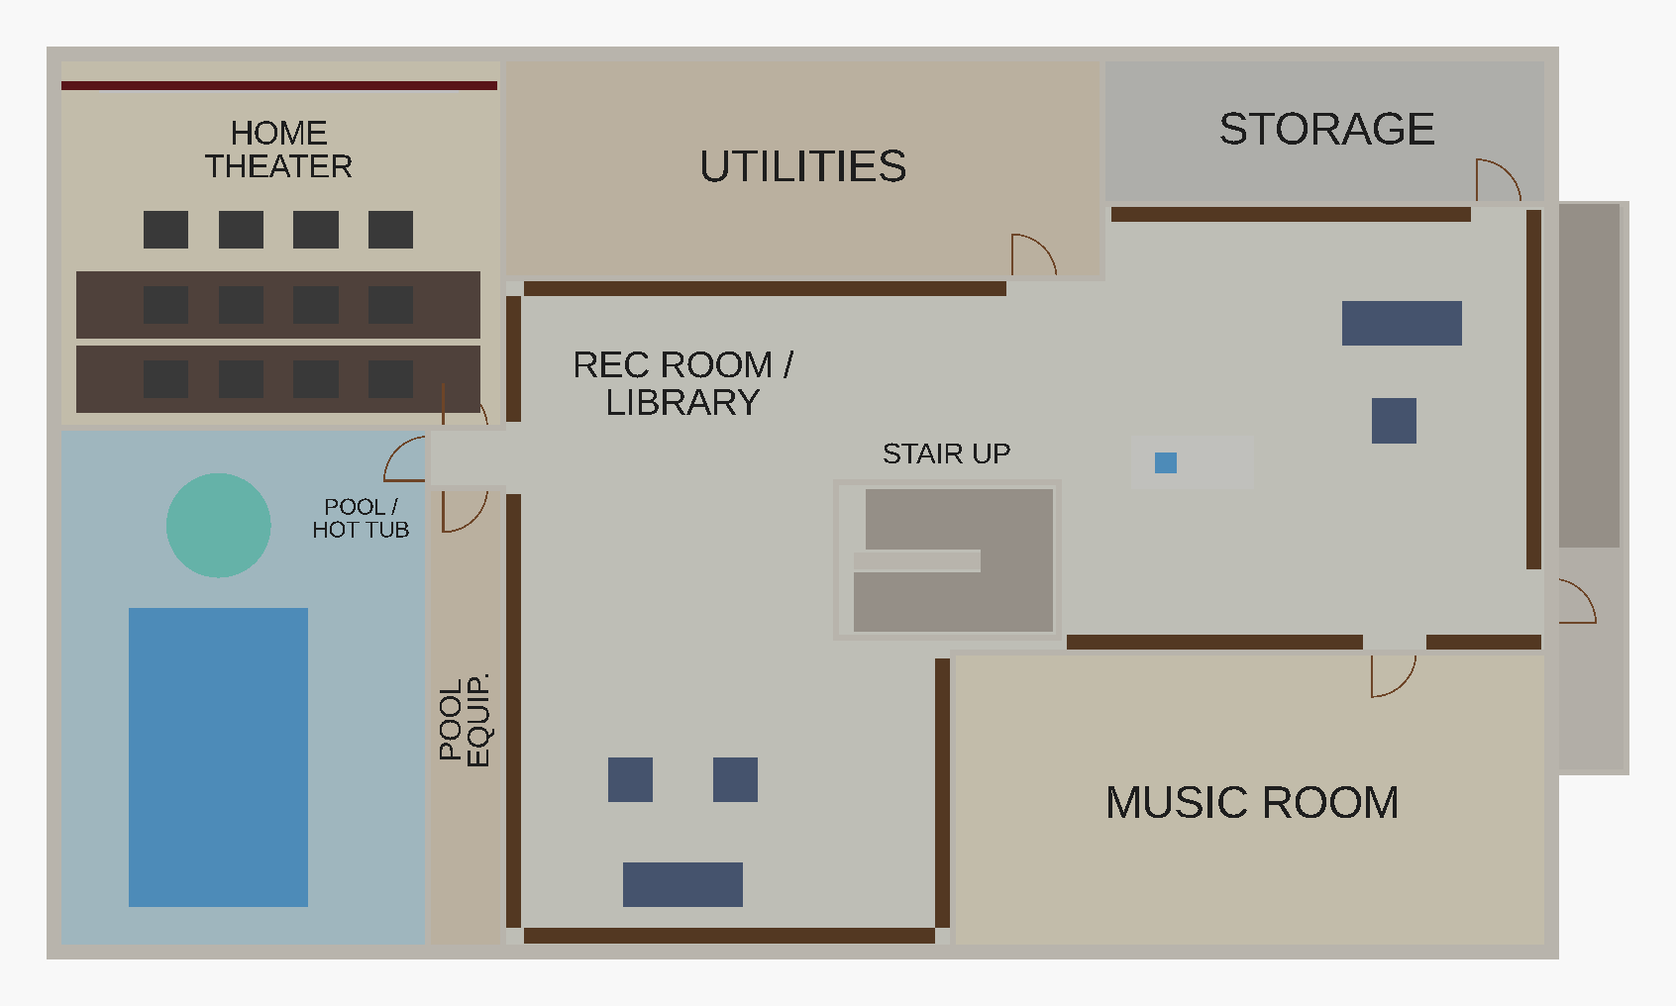
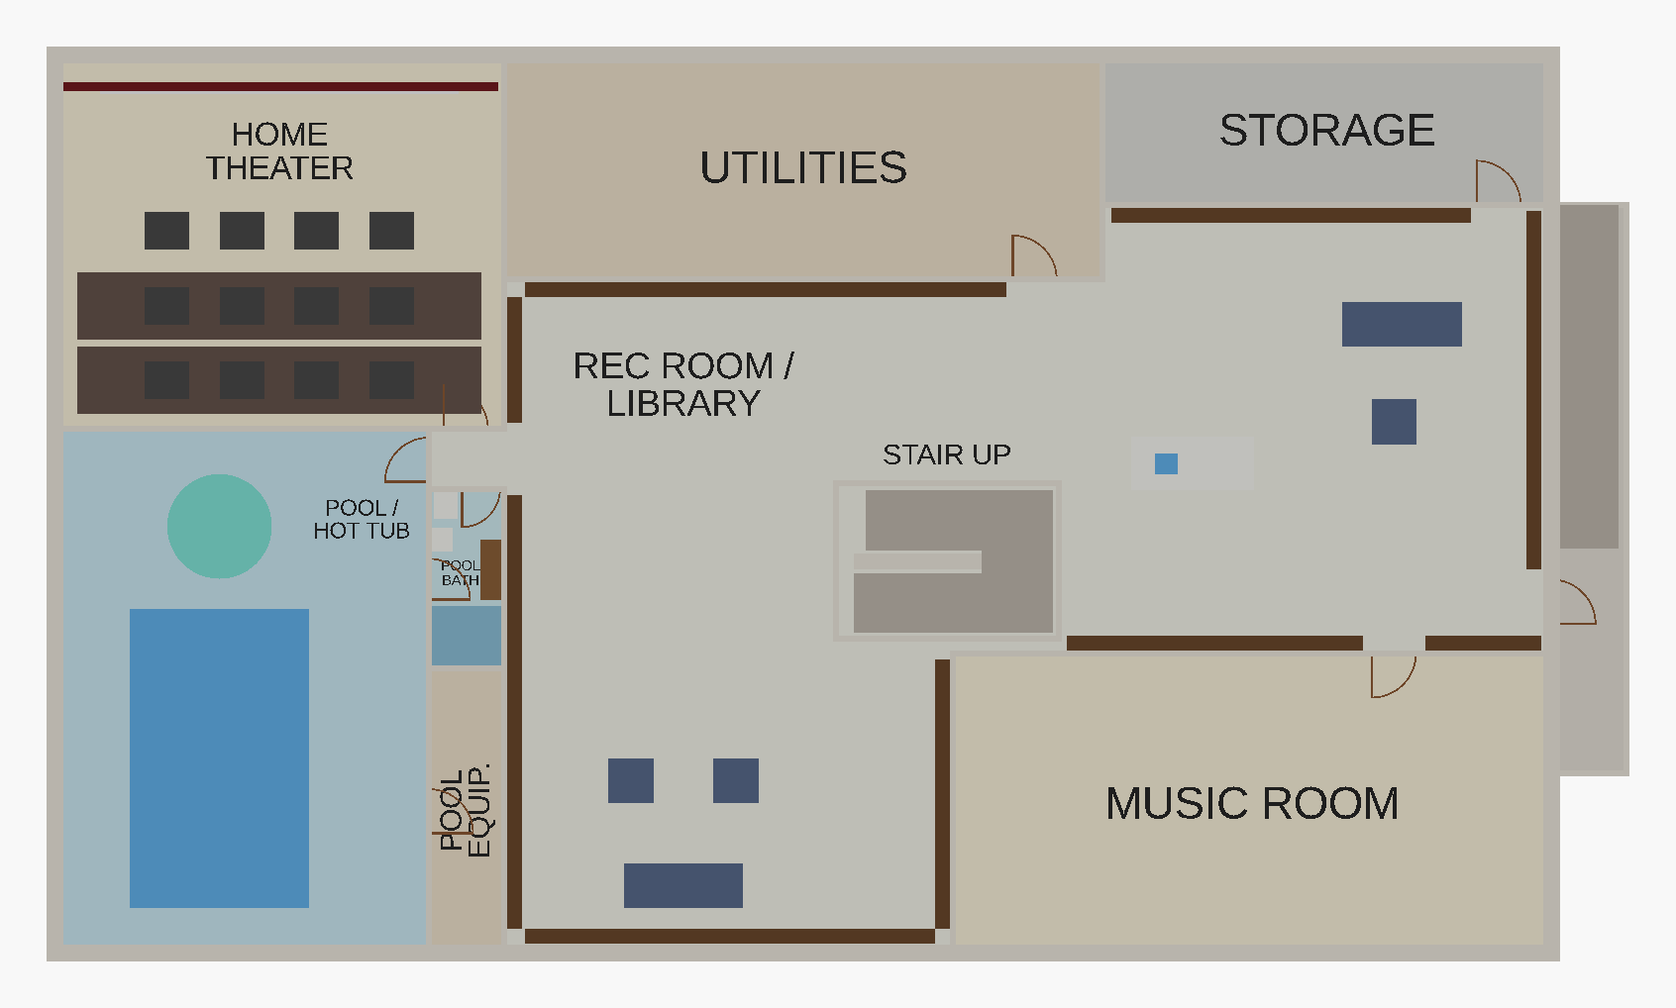
Basement pool bath and 8 in ICF core, from the build research
- Pool bath (WC, shower, sink, change bench) carved from the north end of
  the pool-equipment strip, with doors from the pool room and from the
  rec-room vestibule. Pool equipment keeps 5 x 19 ft, door off the pool.
- Foundation wall drawn 13 1/4 in (8 in core + 2 x 2 5/8 in EPS) via
  icf_wall_t() instead of a flat 1 ft.
- REVIEW.md round-3 table; README; basement and exploded renders.

Claude-Session: https://claude.ai/code/session_018d8BEoLUnZJHvcnz3sBah6

diff --git a/REVIEW.md b/REVIEW.md
@@ -55,6 +55,18 @@ basement sketch, the OpenSCAD models as of `c28a5f8`, and Kayla's notes.
 | *Small bar / coffee station in the middle of the rec room with a small sink and dishwasher* | An island of about **8 × 3½ ft** stands in the open part of the rec room, east of the stair. It has a bar sink and a 24" dishwasher. The old bar counter along the wall is gone. |
 | *All rec-room walls full of bookshelves, a library, with some seating* | **7 ft bookshelves** line every solid rec-room wall, leaving door openings clear. There are two reading groups: a sofa with two chairs in the south bay, and a sofa with a chair near the coffee station. The room is labelled REC ROOM / LIBRARY. |
 
+### Round 3: from the build research (Oct 28)
+
+| Research item | In the model |
+|---|---|
+| *No basement bathroom* (decision A3, a before-the-pour rough-in) | A **pool bath** of about 5 × 12 ft, taken from the north end of the pool-equipment strip. Swimmers reach it straight from the pool room, and it has a second door from the vestibule on the rec-room side, so the theater and library can use it too. Inside: a shower at the south end, a change bench, a sink and a WC. The pool-equipment room is now 5 × 19 ft (about 95 sq ft) with its door off the pool room. |
+| *ICF: plan on an 8 in core* (decision C12) | The foundation wall is now drawn **13¼ in** thick (8 in core plus two 2⅝ in EPS faces) instead of 12 in, centred on the same 100 × 60 outline (`icf_wall_t()` in `house_lib.scad`). |
+
+The rest of the research's layout list is still open and needs your call:
+the stair (section 2 below), a second interior stair, fitting the basement
+outline to the house, the exit stair vs. the side porch, and the theater's
+sound isolation.
+
 ## 2. Decision needed: where the basement stair goes
 
 The two drawings put the stair in places that can't connect:
@@ -154,7 +166,7 @@ Fixed:
   - It now sits behind the screen on the north wall, with the seats on
     risers facing it. The seats used to float in mid-air.
 - **Exit door:**
-  - It wasn't cut through the 1 ft foundation wall, so it was blocked.
+  - It wasn't cut through the foundation wall, so it was blocked.
   - It also sat at the *top* of the exit flight, 10 ft up.
   - It is now cut through the wall at the foot of the stair.
 - **Utilities door:** it opened onto the stair 7–9 ft up, because an earlier
@@ -166,7 +178,8 @@ Fixed:
 
 Assumptions (please check):
 
-- The 5 ft strip beside the pool is a pool-equipment room.
+- The 5 ft strip beside the pool is a pool-equipment room (now shared with
+  the pool bath).
 - The 40 × 20 room is labelled "music room", with a door added because the
   sketch has none.
 - The 10 × 30 room is labelled "storage".

diff --git a/README.md b/README.md
@@ -9,7 +9,7 @@ review and Kayla's notes.
 | File | What |
 |---|---|
 | `main_floor.scad` | Main level, measured off the architect's plan: rooms, doors, windows, kitchen and bath fixtures, porches, hipped roof |
-| `basement.scad` | Lower level from the hand-drawn sketch: theater, pool + hot tub, utilities, rec room / library, music room, exit stair, foundation |
+| `basement.scad` | Lower level from the hand-drawn sketch: theater, pool + hot tub + pool bath, utilities, rec room / library, music room, exit stair, foundation |
 | `house_combined.scad` | Both levels stacked (`use`s the two files above) |
 | `house_lib.scad` | Shared modules and the basement alignment |
 | `tools/check_layout.py` | Optional layout checker (needs `openscad` on `PATH`) |
